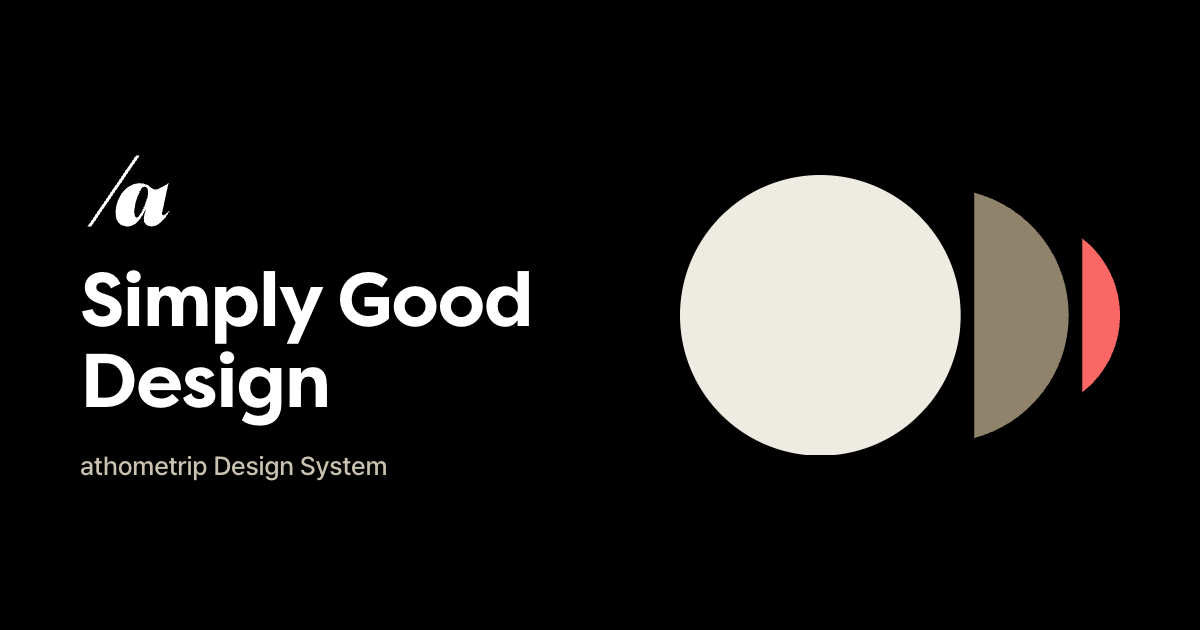
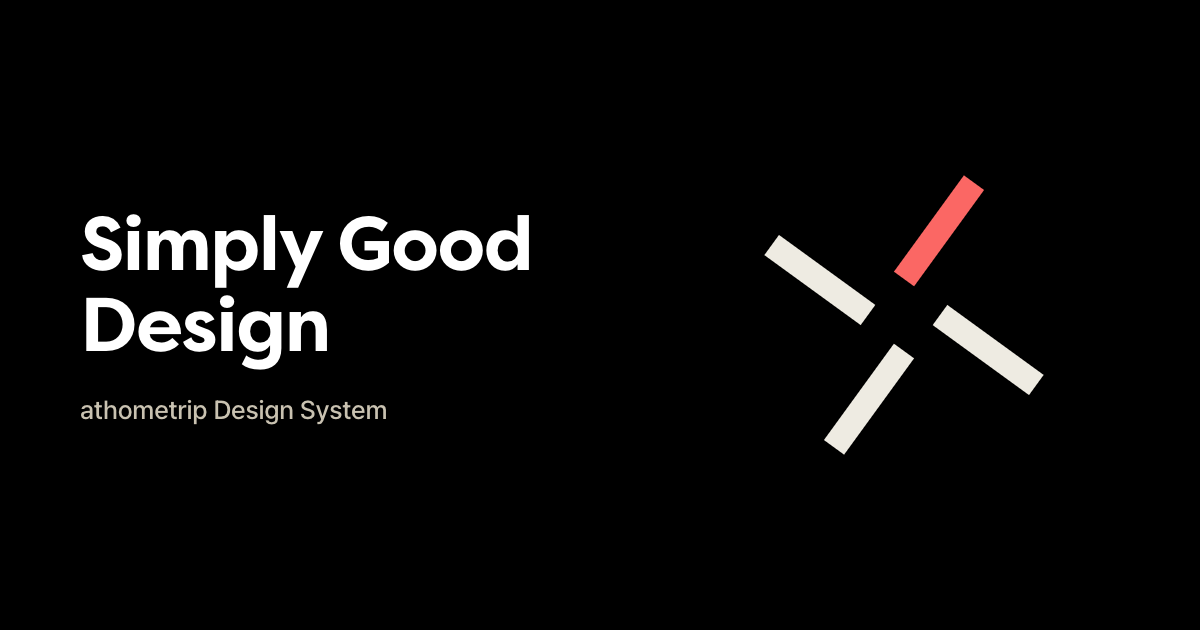
deploy: 새 심볼 적용(표지·헤더·파비콘·OG), 표지 레이아웃과 모션

Changed region(s): [[0.555, 0.2714, 0.9558, 0.7238], [0.0617, 0.2413, 0.4625, 0.6937], [0.0617, 0.7238, 0.3392, 0.754]]

diff --git a/index.html b/index.html
@@ -16,15 +16,25 @@
 <meta property="og:image:height" content="630">
 <meta name="twitter:card" content="summary_large_image">
 <meta name="twitter:image" content="https://chanwoo4939-netizen.github.io/athometrip-design-system/og.png">
-<link rel="icon" type="image/svg+xml" href="logo-nav.svg">
+<link rel="icon" type="image/svg+xml" href="favicon.svg">
 <script>document.documentElement.classList.add("js")</script>
 <link href="https://cdn.jsdelivr.net/gh/orioncactus/pretendard@v1.3.9/dist/web/variable/pretendardvariable-dynamic-subset.min.css" rel="stylesheet">
-<style>@font-face{font-family:'Filson Pro';src:local('Filson Pro Bold');font-weight:700;font-display:swap}@font-face{font-family:'Filson Pro';src:local('Filson Pro Medium');font-weight:500;font-display:swap}</style>
+<style>@font-face{font-family:'Filson Pro';src:local('Filson Pro Bold');font-weight:700;font-display:swap}@font-face{font-family:'Filson Pro';src:local('Filson Pro Medium');font-weight:500;font-display:swap}
+</style>
 <link rel="stylesheet" href="common.css">
 <style>
-.hero-card{padding:0;min-height:480px;display:flex}
-.hero{padding:80px 64px;align-self:center}
-.hero-logo{height:72px;margin-bottom:16px;filter:invert(1)}
+.hero-card{padding:0;min-height:540px;display:flex;justify-content:center}
+.hero{display:flex;flex-direction:column;align-items:center;padding:72px 32px;align-self:center;text-align:center}
+.hero-sy{display:block;width:128px;height:128px;margin-bottom:36px}
+/* 표지 심볼: 처음 열 때 한 번, 막대가 차례로 자리를 잡으며 반 바퀴 돌아 멈춤 */
+.hero-sy{--ease-out:cubic-bezier(.16,1,.3,1);overflow:visible}
+.sy-spin{transform-origin:130px 130px;animation:sy-spin 1.2s var(--ease-out) .35s both}
+.sy-bar{animation:sy-bar .6s var(--ease-out) calc(.35s + var(--i)*80ms) both}
+@keyframes sy-spin{from{transform:rotate(-120deg)}}
+@keyframes sy-bar{from{opacity:0;transform:translateY(22px)}}
+@keyframes sy-fade{from{opacity:0}}
+@media(prefers-reduced-motion:reduce){.sy-spin{animation:none}.sy-bar{animation-name:sy-fade}}
+.hero h1,.hero .hero-sub{max-width:none}
 .idx-sec{padding-top:48px}
 .idx{display:flex;flex-direction:column;gap:8px}
 .idx-group{margin:0 0 16px;font-size:15px;font-weight:600;color:var(--sub)}
@@ -44,7 +54,8 @@
 .idx-g{display:block;width:160px;height:88px;border-radius:6px}
 @media(max-width:768px){
   .hero-card{min-height:0}
-  .hero{padding:48px 32px}
+  .hero{padding:56px 24px}
+  .hero-sy{width:96px;height:96px;margin-bottom:28px}
   .idx a{grid-template-columns:minmax(0,1fr);gap:8px;padding:12px 12px 24px}
   .idx a>h3,.idx a>p{padding:0 8px}
   .idx a>h3{margin-top:8px}
@@ -58,7 +69,7 @@
 <body>
 
 <nav><div class="nav-in">
-  <a href="index.html" class="nav-logo"><img src="logo-nav.svg" alt="athometrip" style="height:28px"><span>Design System</span></a>
+  <a href="index.html" class="nav-logo"><img src="favicon.svg" alt="athometrip" style="height:28px"><span>Design System</span></a>
   <div class="nav-links">
     <a href="color.html">Color</a><a href="type.html">Typography</a><a href="tokens.html">Tokens</a><a href="icons.html">Icons</a><a href="layout.html">Layout</a><a href="state.html">State</a><a href="writing.html">Writing</a><i class="nav-sep"></i><a href="components.html">Components</a><a href="patterns.html">Patterns</a>
   </div>
@@ -70,7 +81,7 @@
 <div class="w">
 <div class="hero-card" data-r>
 <div class="hero">
-  <img src="logo.svg" alt="athometrip" class="hero-logo">
+  <svg class="hero-sy" viewBox="0 0 260 260" width="128" height="128" fill="none" aria-hidden="true"><g class="sy-spin"><g transform="rotate(0 130 130)"><g transform="rotate(36 130 104)"><rect class="sy-bar" style="--i:3" x="121" y="18" width="18" height="86" fill="#FB6764"/></g></g><g transform="rotate(90 130 130)"><g transform="rotate(36 130 104)"><rect class="sy-bar" style="--i:0" x="121" y="18" width="18" height="86" fill="#EEEBE2"/></g></g><g transform="rotate(180 130 130)"><g transform="rotate(36 130 104)"><rect class="sy-bar" style="--i:1" x="121" y="18" width="18" height="86" fill="#EEEBE2"/></g></g><g transform="rotate(270 130 130)"><g transform="rotate(36 130 104)"><rect class="sy-bar" style="--i:2" x="121" y="18" width="18" height="86" fill="#EEEBE2"/></g></g></g></svg>
   <h1>Simply Good <em>Design</em></h1>
   <p class="hero-sub">앳홈트립의 디자인 언어.<br>컴포넌트, 인터랙션, 토큰을 하나의 기준으로 정의합니다.</p>
 </div>

diff --git a/components.html b/components.html
@@ -16,7 +16,7 @@
 <meta property="og:image:height" content="630">
 <meta name="twitter:card" content="summary_large_image">
 <meta name="twitter:image" content="https://chanwoo4939-netizen.github.io/athometrip-design-system/og.png">
-<link rel="icon" type="image/svg+xml" href="logo-nav.svg">
+<link rel="icon" type="image/svg+xml" href="favicon.svg">
 <script>document.documentElement.classList.add("js")</script>
 <link href="https://cdn.jsdelivr.net/gh/orioncactus/pretendard@v1.3.9/dist/web/variable/pretendardvariable-dynamic-subset.min.css" rel="stylesheet">
 <style>@font-face{font-family:'Filson Pro';src:local('Filson Pro Bold');font-weight:700;font-display:swap}@font-face{font-family:'Filson Pro';src:local('Filson Pro Medium');font-weight:500;font-display:swap}</style>
@@ -25,7 +25,7 @@
 <body>
 
 <nav><div class="nav-in">
-  <a href="index.html" class="nav-logo"><img src="logo-nav.svg" alt="athometrip" style="height:28px"><span>Design System</span></a>
+  <a href="index.html" class="nav-logo"><img src="favicon.svg" alt="athometrip" style="height:28px"><span>Design System</span></a>
   <div class="nav-links">
     <a href="color.html">Color</a><a href="type.html">Typography</a><a href="tokens.html">Tokens</a><a href="icons.html">Icons</a><a href="layout.html">Layout</a><a href="state.html">State</a><a href="writing.html">Writing</a><i class="nav-sep"></i><a href="components.html" class="on">Components</a><a href="patterns.html">Patterns</a>
   </div>
@@ -3330,8 +3330,8 @@ function route(){
   if(window.dsSidebarReveal)window.dsSidebarReveal();
   if(window.dsDocEnd){
     const D=window.dsDocEnd,i=sections.indexOf(cur),nm=x=>({href:'#'+x.id,name:x.querySelector('h2').textContent});
-    if(!cur)D.set(D.page.prev,{href:'#'+sections[0].id,name:sections[0].querySelector('h2').textContent},D.page.date);
-    else D.set(i>0?nm(sections[i-1]):{href:'#',name:'전체 보기'},i<sections.length-1?nm(sections[i+1]):D.page.next,cur.dataset.updated||'');
+    if(!cur)D.set(null,null,D.page.date);
+    else D.set(i>0?nm(sections[i-1]):null,i<sections.length-1?nm(sections[i+1]):null,cur.dataset.updated||'');
   }
 }
 // 구성 표시: 미리보기 위에 이름표를 붙이고 해당 부분까지 선을 그음

diff --git a/common.js b/common.js
@@ -118,22 +118,21 @@ document.querySelectorAll('a[href^="#"]').forEach(a=>a.addEventListener('click',
   });
 })();
 
-// 문서 끝: 이전·다음 문서. 마지막 수정 날짜는 푸터에 표시. set(prev,next,date)로 내용을 바꿈
+// 문서 끝: 이전·다음 컴포넌트(컴포넌트 하나를 열었을 때만). 마지막 수정 날짜는 푸터에 표시. set(prev,next,date)로 내용을 바꿈
 window.dsDocEnd=(function(){
-  const host=document.querySelector('.comp-list')||document.querySelector('main .comp-layout')?.parentElement;
+  const host=document.querySelector('.comp-list'); // 컴포넌트 문서 안에서만 씀
   if(!host)return null;
   const ARROW='<svg aria-hidden="true" viewBox="0 0 18 18" fill="none" stroke="currentColor" stroke-width="1.5"><path d="M10.5 4.5 6 9l4.5 4.5"/></svg>';
   const el=document.createElement('div');el.className='doc-end';el.setAttribute('role','navigation');el.setAttribute('aria-label','문서 이동');host.appendChild(el);
   const link=(o,cls,label)=>o?'<a class="'+cls+'" href="'+o.href+'">'+(cls==='de-next'?ARROW.replace('M10.5 4.5 6 9l4.5 4.5','M7.5 4.5 12 9l-4.5 4.5'):ARROW)+'<span><small>'+label+'</small><b>'+o.name+'</b></span></a>':'';
   function set(prev,next,date){
-    el.innerHTML=link(prev,'de-prev','이전')+link(next,'de-next','다음');
+    el.innerHTML=link(prev,'de-prev','이전')+link(next,'de-next','다음');el.hidden=!prev&&!next;
     const by=document.querySelector('.ft-by');if(by&&date)by.innerHTML='Last updated <time datetime="'+date.replace(/\./g,'-')+'">'+date+'</time>';
   }
   const links=[...document.querySelectorAll('.nav-links a')],i=links.findIndex(a=>a.classList.contains('on'));
   const at=k=>links[k]?{href:links[k].getAttribute('href'),name:links[k].textContent.trim()}:null;
   const page={prev:i>0?at(i-1):null,next:i>=0?at(i+1):null,date:document.querySelector('meta[name="ds-updated"]')?.content||''};
-  if(i<0){el.remove();return null}
-  set(page.prev,page.next,page.date);
+  set(null,null,page.date);
   return {set,page};
 })();
 

diff --git a/color.html b/color.html
@@ -16,7 +16,7 @@
 <meta property="og:image:height" content="630">
 <meta name="twitter:card" content="summary_large_image">
 <meta name="twitter:image" content="https://chanwoo4939-netizen.github.io/athometrip-design-system/og.png">
-<link rel="icon" type="image/svg+xml" href="logo-nav.svg">
+<link rel="icon" type="image/svg+xml" href="favicon.svg">
 <script>document.documentElement.classList.add("js")</script>
 <link href="https://cdn.jsdelivr.net/gh/orioncactus/pretendard@v1.3.9/dist/web/variable/pretendardvariable-dynamic-subset.min.css" rel="stylesheet">
 <style>@font-face{font-family:'Filson Pro';src:local('Filson Pro Bold');font-weight:700;font-display:swap}@font-face{font-family:'Filson Pro';src:local('Filson Pro Medium');font-weight:500;font-display:swap}</style>
@@ -25,7 +25,7 @@
 <body>
 
 <nav><div class="nav-in">
-  <a href="index.html" class="nav-logo"><img src="logo-nav.svg" alt="athometrip" style="height:28px"><span>Design System</span></a>
+  <a href="index.html" class="nav-logo"><img src="favicon.svg" alt="athometrip" style="height:28px"><span>Design System</span></a>
   <div class="nav-links">
     <a href="color.html" class="on">Color</a><a href="type.html">Typography</a><a href="tokens.html">Tokens</a><a href="icons.html">Icons</a><a href="layout.html">Layout</a><a href="state.html">State</a><a href="writing.html">Writing</a><i class="nav-sep"></i><a href="components.html">Components</a><a href="patterns.html">Patterns</a>
   </div>

diff --git a/icons.html b/icons.html
@@ -16,7 +16,7 @@
 <meta property="og:image:height" content="630">
 <meta name="twitter:card" content="summary_large_image">
 <meta name="twitter:image" content="https://chanwoo4939-netizen.github.io/athometrip-design-system/og.png">
-<link rel="icon" type="image/svg+xml" href="logo-nav.svg">
+<link rel="icon" type="image/svg+xml" href="favicon.svg">
 <script>document.documentElement.classList.add("js")</script>
 <link href="https://cdn.jsdelivr.net/gh/orioncactus/pretendard@v1.3.9/dist/web/variable/pretendardvariable-dynamic-subset.min.css" rel="stylesheet">
 <style>@font-face{font-family:'Filson Pro';src:local('Filson Pro Bold');font-weight:700;font-display:swap}@font-face{font-family:'Filson Pro';src:local('Filson Pro Medium');font-weight:500;font-display:swap}</style>
@@ -25,7 +25,7 @@
 <body>
 
 <nav><div class="nav-in">
-  <a href="index.html" class="nav-logo"><img src="logo-nav.svg" alt="athometrip" style="height:28px"><span>Design System</span></a>
+  <a href="index.html" class="nav-logo"><img src="favicon.svg" alt="athometrip" style="height:28px"><span>Design System</span></a>
   <div class="nav-links">
     <a href="color.html">Color</a><a href="type.html">Typography</a><a href="tokens.html">Tokens</a><a href="icons.html" class="on">Icons</a><a href="layout.html">Layout</a><a href="state.html">State</a><a href="writing.html">Writing</a><i class="nav-sep"></i><a href="components.html">Components</a><a href="patterns.html">Patterns</a>
   </div>

diff --git a/layout.html b/layout.html
@@ -16,7 +16,7 @@
 <meta property="og:image:height" content="630">
 <meta name="twitter:card" content="summary_large_image">
 <meta name="twitter:image" content="https://chanwoo4939-netizen.github.io/athometrip-design-system/og.png">
-<link rel="icon" type="image/svg+xml" href="logo-nav.svg">
+<link rel="icon" type="image/svg+xml" href="favicon.svg">
 <script>document.documentElement.classList.add("js")</script>
 <link href="https://cdn.jsdelivr.net/gh/orioncactus/pretendard@v1.3.9/dist/web/variable/pretendardvariable-dynamic-subset.min.css" rel="stylesheet">
 <style>@font-face{font-family:'Filson Pro';src:local('Filson Pro Bold');font-weight:700;font-display:swap}@font-face{font-family:'Filson Pro';src:local('Filson Pro Medium');font-weight:500;font-display:swap}</style>
@@ -78,7 +78,7 @@
 <body>
 
 <nav><div class="nav-in">
-  <a href="index.html" class="nav-logo"><img src="logo-nav.svg" alt="athometrip" style="height:28px"><span>Design System</span></a>
+  <a href="index.html" class="nav-logo"><img src="favicon.svg" alt="athometrip" style="height:28px"><span>Design System</span></a>
   <div class="nav-links">
     <a href="color.html">Color</a><a href="type.html">Typography</a><a href="tokens.html">Tokens</a><a href="icons.html">Icons</a><a href="layout.html" class="on">Layout</a><a href="state.html">State</a><a href="writing.html">Writing</a><i class="nav-sep"></i><a href="components.html">Components</a><a href="patterns.html">Patterns</a>
   </div>

diff --git a/patterns.html b/patterns.html
@@ -16,7 +16,7 @@
 <meta property="og:image:height" content="630">
 <meta name="twitter:card" content="summary_large_image">
 <meta name="twitter:image" content="https://chanwoo4939-netizen.github.io/athometrip-design-system/og.png">
-<link rel="icon" type="image/svg+xml" href="logo-nav.svg">
+<link rel="icon" type="image/svg+xml" href="favicon.svg">
 <script>document.documentElement.classList.add("js")</script>
 <link href="https://cdn.jsdelivr.net/gh/orioncactus/pretendard@v1.3.9/dist/web/variable/pretendardvariable-dynamic-subset.min.css" rel="stylesheet">
 <style>@font-face{font-family:'Filson Pro';src:local('Filson Pro Bold');font-weight:700;font-display:swap}@font-face{font-family:'Filson Pro';src:local('Filson Pro Medium');font-weight:500;font-display:swap}</style>
@@ -44,7 +44,7 @@
 <body>
 
 <nav><div class="nav-in">
-  <a href="index.html" class="nav-logo"><img src="logo-nav.svg" alt="athometrip" style="height:28px"><span>Design System</span></a>
+  <a href="index.html" class="nav-logo"><img src="favicon.svg" alt="athometrip" style="height:28px"><span>Design System</span></a>
   <div class="nav-links">
     <a href="color.html">Color</a><a href="type.html">Typography</a><a href="tokens.html">Tokens</a><a href="icons.html">Icons</a><a href="layout.html">Layout</a><a href="state.html">State</a><a href="writing.html">Writing</a><i class="nav-sep"></i><a href="components.html">Components</a><a href="patterns.html" class="on">Patterns</a>
   </div>

diff --git a/state.html b/state.html
@@ -16,7 +16,7 @@
 <meta property="og:image:height" content="630">
 <meta name="twitter:card" content="summary_large_image">
 <meta name="twitter:image" content="https://chanwoo4939-netizen.github.io/athometrip-design-system/og.png">
-<link rel="icon" type="image/svg+xml" href="logo-nav.svg">
+<link rel="icon" type="image/svg+xml" href="favicon.svg">
 <script>document.documentElement.classList.add("js")</script>
 <link href="https://cdn.jsdelivr.net/gh/orioncactus/pretendard@v1.3.9/dist/web/variable/pretendardvariable-dynamic-subset.min.css" rel="stylesheet">
 <style>@font-face{font-family:'Filson Pro';src:local('Filson Pro Bold');font-weight:700;font-display:swap}@font-face{font-family:'Filson Pro';src:local('Filson Pro Medium');font-weight:500;font-display:swap}</style>
@@ -76,7 +76,7 @@
 <body>
 
 <nav><div class="nav-in">
-  <a href="index.html" class="nav-logo"><img src="logo-nav.svg" alt="athometrip" style="height:28px"><span>Design System</span></a>
+  <a href="index.html" class="nav-logo"><img src="favicon.svg" alt="athometrip" style="height:28px"><span>Design System</span></a>
   <div class="nav-links">
     <a href="color.html">Color</a><a href="type.html">Typography</a><a href="tokens.html">Tokens</a><a href="icons.html">Icons</a><a href="layout.html">Layout</a><a href="state.html" class="on">State</a><a href="writing.html">Writing</a><i class="nav-sep"></i><a href="components.html">Components</a><a href="patterns.html">Patterns</a>
   </div>

diff --git a/tokens.html b/tokens.html
@@ -16,7 +16,7 @@
 <meta property="og:image:height" content="630">
 <meta name="twitter:card" content="summary_large_image">
 <meta name="twitter:image" content="https://chanwoo4939-netizen.github.io/athometrip-design-system/og.png">
-<link rel="icon" type="image/svg+xml" href="logo-nav.svg">
+<link rel="icon" type="image/svg+xml" href="favicon.svg">
 <script>document.documentElement.classList.add("js")</script>
 <link href="https://cdn.jsdelivr.net/gh/orioncactus/pretendard@v1.3.9/dist/web/variable/pretendardvariable-dynamic-subset.min.css" rel="stylesheet">
 <style>@font-face{font-family:'Filson Pro';src:local('Filson Pro Bold');font-weight:700;font-display:swap}@font-face{font-family:'Filson Pro';src:local('Filson Pro Medium');font-weight:500;font-display:swap}</style>
@@ -25,7 +25,7 @@
 <body>
 
 <nav><div class="nav-in">
-  <a href="index.html" class="nav-logo"><img src="logo-nav.svg" alt="athometrip" style="height:28px"><span>Design System</span></a>
+  <a href="index.html" class="nav-logo"><img src="favicon.svg" alt="athometrip" style="height:28px"><span>Design System</span></a>
   <div class="nav-links">
     <a href="color.html">Color</a><a href="type.html">Typography</a><a href="tokens.html" class="on">Tokens</a><a href="icons.html">Icons</a><a href="layout.html">Layout</a><a href="state.html">State</a><a href="writing.html">Writing</a><i class="nav-sep"></i><a href="components.html">Components</a><a href="patterns.html">Patterns</a>
   </div>

diff --git a/type.html b/type.html
@@ -16,7 +16,7 @@
 <meta property="og:image:height" content="630">
 <meta name="twitter:card" content="summary_large_image">
 <meta name="twitter:image" content="https://chanwoo4939-netizen.github.io/athometrip-design-system/og.png">
-<link rel="icon" type="image/svg+xml" href="logo-nav.svg">
+<link rel="icon" type="image/svg+xml" href="favicon.svg">
 <script>document.documentElement.classList.add("js")</script>
 <link href="https://cdn.jsdelivr.net/gh/orioncactus/pretendard@v1.3.9/dist/web/variable/pretendardvariable-dynamic-subset.min.css" rel="stylesheet">
 <style>@font-face{font-family:'Filson Pro';src:local('Filson Pro Bold');font-weight:700;font-display:swap}@font-face{font-family:'Filson Pro';src:local('Filson Pro Medium');font-weight:500;font-display:swap}</style>
@@ -25,7 +25,7 @@
 <body>
 
 <nav><div class="nav-in">
-  <a href="index.html" class="nav-logo"><img src="logo-nav.svg" alt="athometrip" style="height:28px"><span>Design System</span></a>
+  <a href="index.html" class="nav-logo"><img src="favicon.svg" alt="athometrip" style="height:28px"><span>Design System</span></a>
   <div class="nav-links">
     <a href="color.html">Color</a><a href="type.html" class="on">Typography</a><a href="tokens.html">Tokens</a><a href="icons.html">Icons</a><a href="layout.html">Layout</a><a href="state.html">State</a><a href="writing.html">Writing</a><i class="nav-sep"></i><a href="components.html">Components</a><a href="patterns.html">Patterns</a>
   </div>

diff --git a/writing.html b/writing.html
@@ -16,7 +16,7 @@
 <meta property="og:image:height" content="630">
 <meta name="twitter:card" content="summary_large_image">
 <meta name="twitter:image" content="https://chanwoo4939-netizen.github.io/athometrip-design-system/og.png">
-<link rel="icon" type="image/svg+xml" href="logo-nav.svg">
+<link rel="icon" type="image/svg+xml" href="favicon.svg">
 <script>document.documentElement.classList.add("js")</script>
 <link href="https://cdn.jsdelivr.net/gh/orioncactus/pretendard@v1.3.9/dist/web/variable/pretendardvariable-dynamic-subset.min.css" rel="stylesheet">
 <style>@font-face{font-family:'Filson Pro';src:local('Filson Pro Bold');font-weight:700;font-display:swap}@font-face{font-family:'Filson Pro';src:local('Filson Pro Medium');font-weight:500;font-display:swap}</style>
@@ -40,7 +40,7 @@
 <body>
 
 <nav><div class="nav-in">
-  <a href="index.html" class="nav-logo"><img src="logo-nav.svg" alt="athometrip" style="height:28px"><span>Design System</span></a>
+  <a href="index.html" class="nav-logo"><img src="favicon.svg" alt="athometrip" style="height:28px"><span>Design System</span></a>
   <div class="nav-links">
     <a href="color.html">Color</a><a href="type.html">Typography</a><a href="tokens.html">Tokens</a><a href="icons.html">Icons</a><a href="layout.html">Layout</a><a href="state.html">State</a><a href="writing.html" class="on">Writing</a><i class="nav-sep"></i><a href="components.html">Components</a><a href="patterns.html">Patterns</a>
   </div>

diff --git a/common.css b/common.css
@@ -1563,6 +1563,7 @@ footer{padding:64px 0 40px}
 /* 문서 끝: 이전·다음 문서, 마지막 수정 */
 .doc-end{display:grid;grid-template-columns:1fr 1fr;align-items:end;gap:24px;margin-top:96px;padding-top:28px;border-top:1px solid var(--line)}
 .comp-list>.doc-end{margin-top:72px}
+.doc-end[hidden]{display:none}
 .doc-end a{display:inline-flex;align-items:center;gap:10px;min-height:48px;color:var(--ink);text-decoration:none}
 .doc-end .de-next{grid-column:2;justify-self:end;flex-direction:row-reverse;text-align:right}
 .doc-end .de-prev{grid-column:1;justify-self:start}
